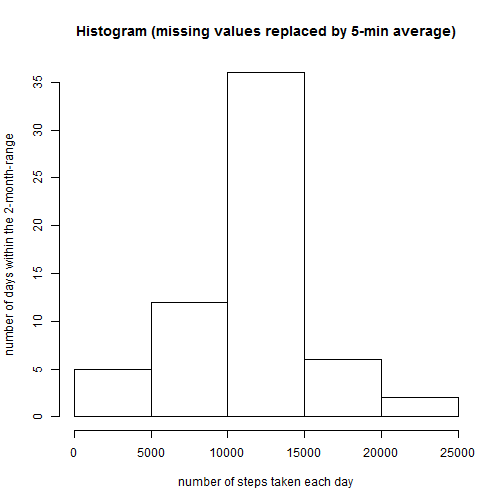
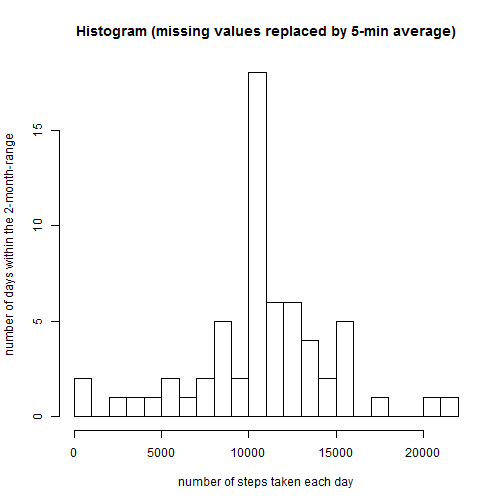
new calculation of mean and median

diff --git a/PA1_template.html b/PA1_template.html
@@ -201,80 +201,18 @@ tidy$date &lt;- as.Date(raw$date, format = &quot;%Y-%m-%d&quot;)
 
 <pre><code class="r">library(plyr)
 steps.day &lt;- ddply(tidy, .(date), summarize, sum=sum(steps))
-hist(steps.day$sum, xlab = &quot;number of steps taken each day&quot;, ylab = &quot;number of days within the 2-month-range&quot;, main = &quot;Histogram (ignoring missing values)&quot;)
+hist(steps.day$sum, breaks = 20, xlab = &quot;number of steps taken each day&quot;, ylab = &quot;number of days within the 2-month-range&quot;, main = &quot;Histogram (ignoring missing values)&quot;)
 </code></pre>
 
[2 lines of base64/hex data omitted]
 
-<p>Here is the mean and median total number of steps taken per day:</p>
+<p>Here is the mean and median of the total number of steps taken per day:</p>
 
-<pre><code class="r">steps.day.mean &lt;- ddply(tidy, .(date), summarize, mean=mean(steps), median=median(steps))
-steps.day.mean
+<pre><code class="r">steps.day.mean &lt;- mean(steps.day$sum, na.rm = TRUE)
+steps.day.median &lt;- median(steps.day$sum, na.rm = TRUE)
 </code></pre>
 
-<pre><code>##          date    mean median
-## 1  2012-10-01      NA     NA
-## 2  2012-10-02  0.4375      0
-## 3  2012-10-03 39.4167      0
-## 4  2012-10-04 42.0694      0
-## 5  2012-10-05 46.1597      0
-## 6  2012-10-06 53.5417      0
-## 7  2012-10-07 38.2465      0
-## 8  2012-10-08      NA     NA
-## 9  2012-10-09 44.4826      0
-## 10 2012-10-10 34.3750      0
-## 11 2012-10-11 35.7778      0
-## 12 2012-10-12 60.3542      0
-## 13 2012-10-13 43.1458      0
-## 14 2012-10-14 52.4236      0
-## 15 2012-10-15 35.2049      0
-## 16 2012-10-16 52.3750      0
-## 17 2012-10-17 46.7083      0
-## 18 2012-10-18 34.9167      0
-## 19 2012-10-19 41.0729      0
-## 20 2012-10-20 36.0938      0
-## 21 2012-10-21 30.6285      0
-## 22 2012-10-22 46.7361      0
-## 23 2012-10-23 30.9653      0
-## 24 2012-10-24 29.0104      0
-## 25 2012-10-25  8.6528      0
-## 26 2012-10-26 23.5347      0
-## 27 2012-10-27 35.1354      0
-## 28 2012-10-28 39.7847      0
-## 29 2012-10-29 17.4236      0
-## 30 2012-10-30 34.0938      0
-## 31 2012-10-31 53.5208      0
-## 32 2012-11-01      NA     NA
-## 33 2012-11-02 36.8056      0
-## 34 2012-11-03 36.7049      0
-## 35 2012-11-04      NA     NA
-## 36 2012-11-05 36.2465      0
-## 37 2012-11-06 28.9375      0
-## 38 2012-11-07 44.7326      0
-## 39 2012-11-08 11.1771      0
-## 40 2012-11-09      NA     NA
-## 41 2012-11-10      NA     NA
-## 42 2012-11-11 43.7778      0
-## 43 2012-11-12 37.3785      0
-## 44 2012-11-13 25.4722      0
-## 45 2012-11-14      NA     NA
-## 46 2012-11-15  0.1424      0
-## 47 2012-11-16 18.8924      0
-## 48 2012-11-17 49.7882      0
-## 49 2012-11-18 52.4653      0
-## 50 2012-11-19 30.6979      0
-## 51 2012-11-20 15.5278      0
-## 52 2012-11-21 44.3993      0
-## 53 2012-11-22 70.9271      0
-## 54 2012-11-23 73.5903      0
-## 55 2012-11-24 50.2708      0
-## 56 2012-11-25 41.0903      0
-## 57 2012-11-26 38.7569      0
-## 58 2012-11-27 47.3819      0
-## 59 2012-11-28 35.3576      0
-## 60 2012-11-29 24.4688      0
-## 61 2012-11-30      NA     NA
-</code></pre>
+<p>The total number of steps taken per day has a mean of 1.0766 &times; 10<sup>4</sup> and a median of 10765.</p>
 
 <h2>What is the average daily activity pattern?</h2>
 
@@ -314,84 +252,23 @@ for (i in 1:dim(tidy)[1]) {
 
 <pre><code class="r">library(plyr)
 steps.day2 &lt;- ddply(tidy2, .(date), summarize, sum=sum(steps))
-hist(steps.day2$sum, xlab = &quot;number of steps taken each day&quot;, ylab = &quot;number of days within the 2-month-range&quot;, main = &quot;Histogram (missing values replaced by 5-min average)&quot;)
+hist(steps.day2$sum, breaks = 20, xlab = &quot;number of steps taken each day&quot;, ylab = &quot;number of days within the 2-month-range&quot;, main = &quot;Histogram (missing values replaced by 5-min average)&quot;)
 </code></pre>
 
[2 lines of base64/hex data omitted]
 
 <p>Here is the mean and median total number of steps taken per day (missing values replaced by mean for that 5-min interval)</p>
 
-<pre><code class="r">steps.day.mean2 &lt;- ddply(tidy2, .(date), summarize, mean=mean(steps), median=median(steps))
-steps.day.mean2
+<pre><code class="r">steps.day.mean2 &lt;- mean(steps.day2$sum, na.rm = TRUE)
+steps.day.median2 &lt;- median(steps.day2$sum, na.rm = TRUE)
 </code></pre>
 
-<pre><code>##          date    mean median
-## 1  2012-10-01 37.3826  34.11
-## 2  2012-10-02  0.4375   0.00
-## 3  2012-10-03 39.4167   0.00
-## 4  2012-10-04 42.0694   0.00
-## 5  2012-10-05 46.1597   0.00
-## 6  2012-10-06 53.5417   0.00
-## 7  2012-10-07 38.2465   0.00
-## 8  2012-10-08 37.3826  34.11
-## 9  2012-10-09 44.4826   0.00
-## 10 2012-10-10 34.3750   0.00
-## 11 2012-10-11 35.7778   0.00
-## 12 2012-10-12 60.3542   0.00
-## 13 2012-10-13 43.1458   0.00
-## 14 2012-10-14 52.4236   0.00
-## 15 2012-10-15 35.2049   0.00
-## 16 2012-10-16 52.3750   0.00
-## 17 2012-10-17 46.7083   0.00
-## 18 2012-10-18 34.9167   0.00
-## 19 2012-10-19 41.0729   0.00
-## 20 2012-10-20 36.0938   0.00
-## 21 2012-10-21 30.6285   0.00
-## 22 2012-10-22 46.7361   0.00
-## 23 2012-10-23 30.9653   0.00
-## 24 2012-10-24 29.0104   0.00
-## 25 2012-10-25  8.6528   0.00
-## 26 2012-10-26 23.5347   0.00
-## 27 2012-10-27 35.1354   0.00
-## 28 2012-10-28 39.7847   0.00
-## 29 2012-10-29 17.4236   0.00
-## 30 2012-10-30 34.0938   0.00
-## 31 2012-10-31 53.5208   0.00
-## 32 2012-11-01 37.3826  34.11
-## 33 2012-11-02 36.8056   0.00
-## 34 2012-11-03 36.7049   0.00
-## 35 2012-11-04 37.3826  34.11
-## 36 2012-11-05 36.2465   0.00
-## 37 2012-11-06 28.9375   0.00
-## 38 2012-11-07 44.7326   0.00
-## 39 2012-11-08 11.1771   0.00
-## 40 2012-11-09 37.3826  34.11
-## 41 2012-11-10 37.3826  34.11
-## 42 2012-11-11 43.7778   0.00
-## 43 2012-11-12 37.3785   0.00
-## 44 2012-11-13 25.4722   0.00
-## 45 2012-11-14 37.3826  34.11
-## 46 2012-11-15  0.1424   0.00
-## 47 2012-11-16 18.8924   0.00
-## 48 2012-11-17 49.7882   0.00
-## 49 2012-11-18 52.4653   0.00
-## 50 2012-11-19 30.6979   0.00
-## 51 2012-11-20 15.5278   0.00
-## 52 2012-11-21 44.3993   0.00
-## 53 2012-11-22 70.9271   0.00
-## 54 2012-11-23 73.5903   0.00
-## 55 2012-11-24 50.2708   0.00
-## 56 2012-11-25 41.0903   0.00
-## 57 2012-11-26 38.7569   0.00
-## 58 2012-11-27 47.3819   0.00
-## 59 2012-11-28 35.3576   0.00
-## 60 2012-11-29 24.4688   0.00
-## 61 2012-11-30 37.3826  34.11
-</code></pre>
+<p>The total number of steps taken per day has a mean of 1.0766 &times; 10<sup>4</sup> and a median of 1.0766 &times; 10<sup>4</sup>.</p>
 
 <p>The NA&#39;s affected only eight days, but those entirely (8 time 288 equals the total of 2304 missing values). Therefore, the mean over a day was not useful to replace the NA&#39;s. Consequently, only those 8 days were affected, and all of them received identical values, i.e. for each of the 288 5-min intervals the average of the 53 valid days.<br/>
-In the histogram, the middle bar grew by 8.<br/>
-In the mean/median table, these 8 days received identical mean/median replacing the previous NAs; the other 53 days remaining unchanged.</p>
+In the histogram, the middle bar grew by 8 (from 10 to 18).
+The mean is exactly the same as before imputing missing values, as the mean was used to replace the previous NAs.
+The median is now equal to the mean, not being an integer number any more, as there are now 8 days with this mean number of steps per day.</p>
 
 <h2>Are there differences in activity patterns between weekdays and weekends?</h2>
 

diff --git a/PA1_template.md b/PA1_template.md
@@ -1,3 +1,6 @@
+---
+output: pdf_document
+---
 # Reproducible Research: Peer Assessment 1
 
 
@@ -28,83 +31,20 @@ Here is a histogram of the total number of steps taken each day:
 ```r
 library(plyr)
 steps.day <- ddply(tidy, .(date), summarize, sum=sum(steps))
-hist(steps.day$sum, xlab = "number of steps taken each day", ylab = "number of days within the 2-month-range", main = "Histogram (ignoring missing values)")
+hist(steps.day$sum, breaks = 20, xlab = "number of steps taken each day", ylab = "number of days within the 2-month-range", main = "Histogram (ignoring missing values)")
 ```
 
 ![plot of chunk histogram steps per day](figure/histogram steps per day.png) 
 
-Here is the mean and median total number of steps taken per day:
+Here is the mean and median of the total number of steps taken per day:
 
 
 ```r
-steps.day.mean <- ddply(tidy, .(date), summarize, mean=mean(steps), median=median(steps))
-steps.day.mean
+steps.day.mean <- mean(steps.day$sum, na.rm = TRUE)
+steps.day.median <- median(steps.day$sum, na.rm = TRUE)
 ```
 
-```
-##          date    mean median
-## 1  2012-10-01      NA     NA
-## 2  2012-10-02  0.4375      0
-## 3  2012-10-03 39.4167      0
-## 4  2012-10-04 42.0694      0
-## 5  2012-10-05 46.1597      0
-## 6  2012-10-06 53.5417      0
-## 7  2012-10-07 38.2465      0
-## 8  2012-10-08      NA     NA
-## 9  2012-10-09 44.4826      0
-## 10 2012-10-10 34.3750      0
-## 11 2012-10-11 35.7778      0
-## 12 2012-10-12 60.3542      0
-## 13 2012-10-13 43.1458      0
-## 14 2012-10-14 52.4236      0
-## 15 2012-10-15 35.2049      0
-## 16 2012-10-16 52.3750      0
-## 17 2012-10-17 46.7083      0
-## 18 2012-10-18 34.9167      0
-## 19 2012-10-19 41.0729      0
-## 20 2012-10-20 36.0938      0
-## 21 2012-10-21 30.6285      0
-## 22 2012-10-22 46.7361      0
-## 23 2012-10-23 30.9653      0
-## 24 2012-10-24 29.0104      0
-## 25 2012-10-25  8.6528      0
-## 26 2012-10-26 23.5347      0
-## 27 2012-10-27 35.1354      0
-## 28 2012-10-28 39.7847      0
-## 29 2012-10-29 17.4236      0
-## 30 2012-10-30 34.0938      0
-## 31 2012-10-31 53.5208      0
-## 32 2012-11-01      NA     NA
-## 33 2012-11-02 36.8056      0
-## 34 2012-11-03 36.7049      0
-## 35 2012-11-04      NA     NA
-## 36 2012-11-05 36.2465      0
-## 37 2012-11-06 28.9375      0
-## 38 2012-11-07 44.7326      0
-## 39 2012-11-08 11.1771      0
-## 40 2012-11-09      NA     NA
-## 41 2012-11-10      NA     NA
-## 42 2012-11-11 43.7778      0
-## 43 2012-11-12 37.3785      0
-## 44 2012-11-13 25.4722      0
-## 45 2012-11-14      NA     NA
-## 46 2012-11-15  0.1424      0
-## 47 2012-11-16 18.8924      0
-## 48 2012-11-17 49.7882      0
-## 49 2012-11-18 52.4653      0
-## 50 2012-11-19 30.6979      0
-## 51 2012-11-20 15.5278      0
-## 52 2012-11-21 44.3993      0
-## 53 2012-11-22 70.9271      0
-## 54 2012-11-23 73.5903      0
-## 55 2012-11-24 50.2708      0
-## 56 2012-11-25 41.0903      0
-## 57 2012-11-26 38.7569      0
-## 58 2012-11-27 47.3819      0
-## 59 2012-11-28 35.3576      0
-## 60 2012-11-29 24.4688      0
-## 61 2012-11-30      NA     NA
-```
+The total number of steps taken per day has a mean of 1.0766 &times; 10<sup>4</sup> and a median of 10765.
 
 
 ## What is the average daily activity pattern?
@@ -155,7 +95,7 @@ Here is a histogram of the total number of steps taken each day (missing values 
 ```r
 library(plyr)
 steps.day2 <- ddply(tidy2, .(date), summarize, sum=sum(steps))
-hist(steps.day2$sum, xlab = "number of steps taken each day", ylab = "number of days within the 2-month-range", main = "Histogram (missing values replaced by 5-min average)")
+hist(steps.day2$sum, breaks = 20, xlab = "number of steps taken each day", ylab = "number of days within the 2-month-range", main = "Histogram (missing values replaced by 5-min average)")
 ```
 
 ![plot of chunk histogram steps per day2](figure/histogram steps per day2.png) 
@@ -164,78 +104,16 @@ Here is the mean and median total number of steps taken per day (missing values 
 
 
 ```r
-steps.day.mean2 <- ddply(tidy2, .(date), summarize, mean=mean(steps), median=median(steps))
-steps.day.mean2
+steps.day.mean2 <- mean(steps.day2$sum, na.rm = TRUE)
+steps.day.median2 <- median(steps.day2$sum, na.rm = TRUE)
 ```
 
-```
-##          date    mean median
-## 1  2012-10-01 37.3826  34.11
-## 2  2012-10-02  0.4375   0.00
-## 3  2012-10-03 39.4167   0.00
-## 4  2012-10-04 42.0694   0.00
-## 5  2012-10-05 46.1597   0.00
-## 6  2012-10-06 53.5417   0.00
-## 7  2012-10-07 38.2465   0.00
-## 8  2012-10-08 37.3826  34.11
-## 9  2012-10-09 44.4826   0.00
-## 10 2012-10-10 34.3750   0.00
-## 11 2012-10-11 35.7778   0.00
-## 12 2012-10-12 60.3542   0.00
-## 13 2012-10-13 43.1458   0.00
-## 14 2012-10-14 52.4236   0.00
-## 15 2012-10-15 35.2049   0.00
-## 16 2012-10-16 52.3750   0.00
-## 17 2012-10-17 46.7083   0.00
-## 18 2012-10-18 34.9167   0.00
-## 19 2012-10-19 41.0729   0.00
-## 20 2012-10-20 36.0938   0.00
-## 21 2012-10-21 30.6285   0.00
-## 22 2012-10-22 46.7361   0.00
-## 23 2012-10-23 30.9653   0.00
-## 24 2012-10-24 29.0104   0.00
-## 25 2012-10-25  8.6528   0.00
-## 26 2012-10-26 23.5347   0.00
-## 27 2012-10-27 35.1354   0.00
-## 28 2012-10-28 39.7847   0.00
-## 29 2012-10-29 17.4236   0.00
-## 30 2012-10-30 34.0938   0.00
-## 31 2012-10-31 53.5208   0.00
-## 32 2012-11-01 37.3826  34.11
-## 33 2012-11-02 36.8056   0.00
-## 34 2012-11-03 36.7049   0.00
-## 35 2012-11-04 37.3826  34.11
-## 36 2012-11-05 36.2465   0.00
-## 37 2012-11-06 28.9375   0.00
-## 38 2012-11-07 44.7326   0.00
-## 39 2012-11-08 11.1771   0.00
-## 40 2012-11-09 37.3826  34.11
-## 41 2012-11-10 37.3826  34.11
-## 42 2012-11-11 43.7778   0.00
-## 43 2012-11-12 37.3785   0.00
-## 44 2012-11-13 25.4722   0.00
-## 45 2012-11-14 37.3826  34.11
-## 46 2012-11-15  0.1424   0.00
-## 47 2012-11-16 18.8924   0.00
-## 48 2012-11-17 49.7882   0.00
-## 49 2012-11-18 52.4653   0.00
-## 50 2012-11-19 30.6979   0.00
-## 51 2012-11-20 15.5278   0.00
-## 52 2012-11-21 44.3993   0.00
-## 53 2012-11-22 70.9271   0.00
-## 54 2012-11-23 73.5903   0.00
-## 55 2012-11-24 50.2708   0.00
-## 56 2012-11-25 41.0903   0.00
-## 57 2012-11-26 38.7569   0.00
-## 58 2012-11-27 47.3819   0.00
-## 59 2012-11-28 35.3576   0.00
-## 60 2012-11-29 24.4688   0.00
-## 61 2012-11-30 37.3826  34.11
-```
+The total number of steps taken per day has a mean of 1.0766 &times; 10<sup>4</sup> and a median of 1.0766 &times; 10<sup>4</sup>.
 
 The NA's affected only eight days, but those entirely (8 time 288 equals the total of 2304 missing values). Therefore, the mean over a day was not useful to replace the NA's. Consequently, only those 8 days were affected, and all of them received identical values, i.e. for each of the 288 5-min intervals the average of the 53 valid days.  
-In the histogram, the middle bar grew by 8.  
-In the mean/median table, these 8 days received identical mean/median replacing the previous NAs; the other 53 days remaining unchanged.
+In the histogram, the middle bar grew by 8 (from 10 to 18).
+The mean is exactly the same as before imputing missing values, as the mean was used to replace the previous NAs.
+The median is now equal to the mean, not being an integer number any more, as there are now 8 days with this mean number of steps per day.
 
 
 ## Are there differences in activity patterns between weekdays and weekends?
